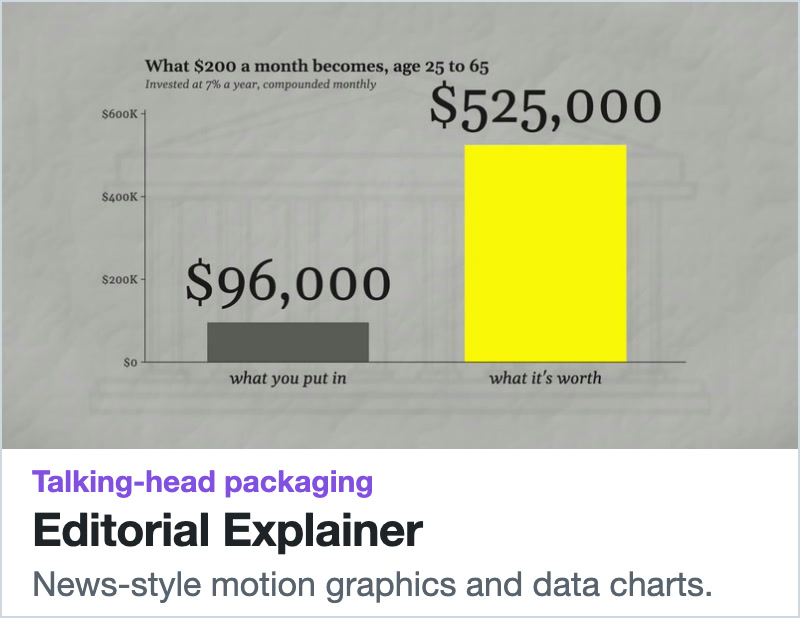
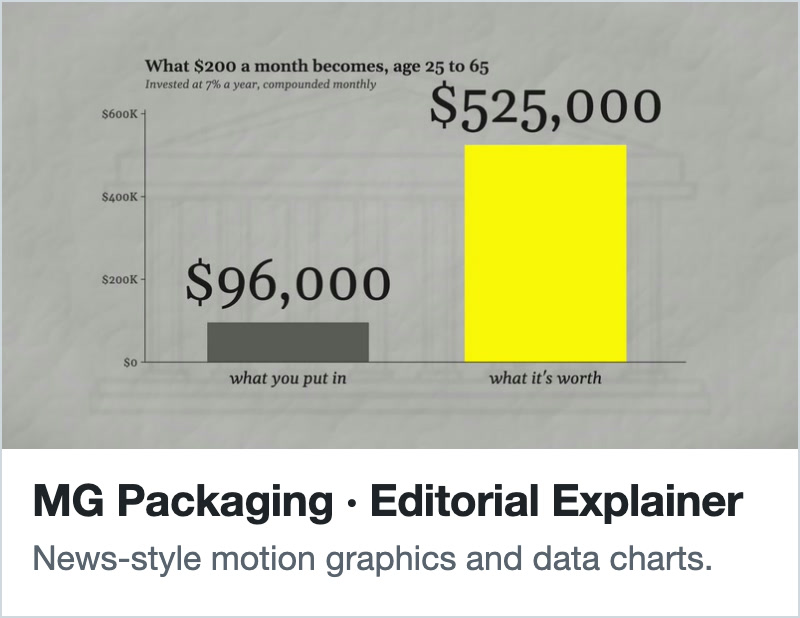
docs(readme): one-line MG Packaging card titles, Install by plugin type
- Packaging cards read "MG Packaging · <style>" on one line at 44px.
- Install opens with the Desktop and Web plugins, adds a Plugin column and a
  Setup guide column with uniform link text, then splits into Desktop and Web
  subsections.

Changed region(s): [[0.0312, 0.7379, 0.9375, 0.9838]]

diff --git a/README.md b/README.md
@@ -27,7 +27,7 @@
 [<img src="docs/media/hosts/antigravity.png" height="28" alt="Google Antigravity">](https://chatcut.io/antigravity-plugin?utm_source=github&utm_medium=readme&utm_campaign=agent-plugin)
 [<img src="docs/media/hosts/workbuddy.png" height="28" alt="WorkBuddy">](https://chatcut.io/workbuddy?utm_source=github&utm_medium=readme&utm_campaign=agent-plugin)<br>
 [<img src="docs/media/hosts/cursor.png" height="28" alt="Cursor">](./cursor/README.md)
-[<img src="docs/media/hosts/gemini-cli.png" height="28" alt="Gemini CLI">](#hosted-web-plugin)
+[<img src="docs/media/hosts/gemini-cli.png" height="28" alt="Gemini CLI">](#install-the-web-plugin)
 [<img src="docs/media/hosts/kimi-work.png" height="28" alt="Kimi Work">](./kimi/README.md)
 [<img src="docs/media/hosts/doubao-work.png" height="28" alt="Doubao Work">](./doubao/README.md)
 [<img src="docs/media/hosts/qwen-work.png" height="28" alt="Qwen Work">](./qwen/README.md)
@@ -39,31 +39,33 @@
   <a href="https://chatcut.io/viralvideocloner?utm_source=github&amp;utm_medium=readme&amp;utm_campaign=agent-plugin"><img src="docs/media/skills/viral-video-cloner.jpg" width="260" alt="Viral Video Cloner: keeps a viral video's moves, camera work and cuts, and swaps in your own people, product and setting"></a>
   <a href="https://chatcut.io/skills/add-captions?utm_source=github&amp;utm_medium=readme&amp;utm_campaign=agent-plugin"><img src="docs/media/skills/add-captions.jpg" width="260" alt="Add captions: readable captions in a style that fits"></a>
   <a href="https://chatcut.io/skills/recreate-a-video?utm_source=github&amp;utm_medium=readme&amp;utm_campaign=agent-plugin"><img src="docs/media/skills/recreate-a-video.jpg" width="260" alt="Talking-Head Edit Recreation: recreates a reference edit with your footage"></a>
-  <a href="https://chatcut.io/skills/mg-packaging-runway-rebel?utm_source=github&amp;utm_medium=readme&amp;utm_campaign=agent-plugin"><img src="docs/media/skills/mg-packaging-runway-rebel.jpg" width="260" alt="Talking-head packaging, Runway Rebel: bold white type with slim yellow numerals"></a>
-  <a href="https://chatcut.io/skills/mg-packaging-editorial-explainer?utm_source=github&amp;utm_medium=readme&amp;utm_campaign=agent-plugin"><img src="docs/media/skills/mg-packaging-editorial-explainer.jpg" width="260" alt="Talking-head packaging, Editorial Explainer: news-style motion graphics and data charts"></a>
+  <a href="https://chatcut.io/skills/mg-packaging-runway-rebel?utm_source=github&amp;utm_medium=readme&amp;utm_campaign=agent-plugin"><img src="docs/media/skills/mg-packaging-runway-rebel.jpg" width="260" alt="MG Packaging · Runway Rebel: bold white type with slim yellow numerals"></a>
+  <a href="https://chatcut.io/skills/mg-packaging-editorial-explainer?utm_source=github&amp;utm_medium=readme&amp;utm_campaign=agent-plugin"><img src="docs/media/skills/mg-packaging-editorial-explainer.jpg" width="260" alt="MG Packaging · Editorial Explainer: news-style motion graphics and data charts"></a>
 </p>
 
 ## Install
 
-**ChatCut Desktop (recommended).** In Codex, the ChatGPT desktop app, Claude Code or another local agent, paste the prompt below. The agent installs ChatCut Desktop, opens sign-in, and connects itself to Desktop's local `chatcut_desktop` MCP server. Hosts marked *(Web)* connect to the hosted Web plugin instead.
+ChatCut comes as two plugins. The **Desktop plugin** (recommended) connects your agent to ChatCut Desktop on your computer: your media stays local, and you get the fullest features and steadiest performance. The **Web plugin** connects to hosted ChatCut Web, for hosts that can't run Desktop, such as Grok Bot, Cursor, Kimi Work and Qwen Work, or for Web-only use.
 
-| Agent | Paste this into your agent, or do this | Guide |
-| --- | --- | --- |
-| Codex | `Read ChatCut.io/desktop to install ChatCut` | [chatcut.io/chatgpt-plugin](https://chatcut.io/chatgpt-plugin?utm_source=github&utm_medium=readme&utm_campaign=agent-plugin) |
-| ChatGPT | `Read ChatCut.io/desktop to install ChatCut` in the desktop app, or open **Plugins** in the sidebar, search for **ChatCut** and select **Install** | [chatcut.io/chatgpt-plugin](https://chatcut.io/chatgpt-plugin?utm_source=github&utm_medium=readme&utm_campaign=agent-plugin) |
-| Claude Code | `Read ChatCut.io/desktop to install ChatCut` | [chatcut.io/claude-code-plugin](https://chatcut.io/claude-code-plugin?utm_source=github&utm_medium=readme&utm_campaign=agent-plugin) |
-| Cursor *(Web)* | Add **ChatCut** from Cursor's plugin marketplace and sign in | [cursor/README.md](./cursor/README.md) |
-| Grok Bot *(Web)* | `Read ChatCut.io/grok to connect the ChatCut app` | [chatcut.io/grok-plugin](https://chatcut.io/grok-plugin?utm_source=github&utm_medium=readme&utm_campaign=agent-plugin) |
-| Gemini CLI *(Web)* | `gemini extensions install https://github.com/ChatCut-Inc/agent-plugin` | [Hosted Web plugin](#hosted-web-plugin) |
-| Google Antigravity | `Read ChatCut.io/antigravity to install ChatCut` | [chatcut.io/antigravity-plugin](https://chatcut.io/antigravity-plugin?utm_source=github&utm_medium=readme&utm_campaign=agent-plugin) |
-| Kimi Work *(Web)* | Import the package with Kimi Work's plugin installer, then select **Login** on the ChatCut connector card | [kimi/README.md](./kimi/README.md) |
-| WorkBuddy | `Read ChatCut.io/desktop to install ChatCut`, or add the ChatCut expert from WorkBuddy's experts page *(Web)* | [chatcut.io/workbuddy](https://chatcut.io/workbuddy?utm_source=github&utm_medium=readme&utm_campaign=agent-plugin) · [workbuddy/README.md](./workbuddy/README.md) |
-| Doubao Work (豆包工作) | Add **ChatCut** in Doubao Work and ask for an edit. It connects to ChatCut Desktop through a local connector and installs Desktop if needed | [doubao/README.md](./doubao/README.md) |
-| Qwen Work (千问办公) *(Web)* | Turn on **ChatCut** under **Extensions → Connectors** (扩展 → 连接器) and sign in | [qwen/README.md](./qwen/README.md) |
+| Agent | Plugin | How to install | Setup guide |
+| --- | --- | --- | --- |
+| Codex | Desktop | `Read ChatCut.io/desktop to install ChatCut` | [Codex guide](https://chatcut.io/chatgpt-plugin?utm_source=github&utm_medium=readme&utm_campaign=agent-plugin) |
+| ChatGPT | Desktop | `Read ChatCut.io/desktop to install ChatCut` in the desktop app, or open **Plugins** in the sidebar, search for **ChatCut** and select **Install** | [ChatGPT guide](https://chatcut.io/chatgpt-plugin?utm_source=github&utm_medium=readme&utm_campaign=agent-plugin) |
+| Claude Code | Desktop | `Read ChatCut.io/desktop to install ChatCut` | [Claude Code guide](https://chatcut.io/claude-code-plugin?utm_source=github&utm_medium=readme&utm_campaign=agent-plugin) |
+| Cursor | Web | Add **ChatCut** from Cursor's plugin marketplace and sign in | [Cursor guide](./cursor/README.md) |
+| Grok Bot | Web | `Read ChatCut.io/grok to connect the ChatCut app` | [Grok Bot guide](https://chatcut.io/grok-plugin?utm_source=github&utm_medium=readme&utm_campaign=agent-plugin) |
+| Gemini CLI | Web | `gemini extensions install https://github.com/ChatCut-Inc/agent-plugin` | [Gemini CLI guide](#install-the-web-plugin) |
+| Google Antigravity | Desktop | `Read ChatCut.io/antigravity to install ChatCut` | [Antigravity guide](https://chatcut.io/antigravity-plugin?utm_source=github&utm_medium=readme&utm_campaign=agent-plugin) |
+| Kimi Work | Web | Import the package with Kimi Work's plugin installer, then select **Login** on the ChatCut connector card | [Kimi Work guide](./kimi/README.md) |
+| WorkBuddy | Desktop or Web | Desktop: `Read ChatCut.io/desktop to install ChatCut`. Web: add the ChatCut expert from WorkBuddy's experts page | [WorkBuddy guide](https://chatcut.io/workbuddy?utm_source=github&utm_medium=readme&utm_campaign=agent-plugin) · [WorkBuddy Web guide](./workbuddy/README.md) |
+| Doubao Work (豆包工作) | Desktop | Add **ChatCut** in Doubao Work and ask for an edit. It connects through a local connector and installs Desktop if needed | [Doubao Work guide](./doubao/README.md) |
+| Qwen Work (千问办公) | Web | Turn on **ChatCut** under **Extensions → Connectors** (扩展 → 连接器) and sign in | [Qwen Work guide](./qwen/README.md) |
 
-### Install ChatCut Desktop yourself
+### Install the Desktop plugin
 
-Run the official installer on the macOS or Windows computer itself. It needs a graphical desktop but not Node.js or npm, so a Linux or remote agent can't install Desktop there:
+In Codex, the ChatGPT desktop app, Claude Code or another local agent, paste `Read ChatCut.io/desktop to install ChatCut`. The agent installs ChatCut Desktop, opens sign-in and connects itself to Desktop's local `chatcut_desktop` MCP server.
+
+To install Desktop yourself, run the official installer on the macOS or Windows computer. It needs a graphical desktop but not Node.js or npm, so a Linux or remote agent can't install Desktop there:
 
 ```sh
 # macOS 13 or newer (Apple Silicon or Intel)
@@ -75,7 +77,7 @@ curl -fsSL https://chatcut.io/install.sh | sh
 irm https://chatcut.io/install.ps1 | iex
 ```
 
-Google Antigravity can also install the Desktop package directly. Then ask “Install ChatCut on this computer”. It installs and connects ChatCut Desktop only; see [antigravity-desktop/README.md](./antigravity-desktop/README.md).
+Google Antigravity can also install the Desktop package directly. Then ask “Install ChatCut on this computer”. It installs and connects ChatCut Desktop only; see the [Antigravity Desktop guide](./antigravity-desktop/README.md).
 
 ```sh
 agy plugin install https://github.com/ChatCut-Inc/agent-plugin/tree/main/antigravity-desktop
@@ -83,9 +85,9 @@ agy plugin install https://github.com/ChatCut-Inc/agent-plugin/tree/main/antigra
 
 Video recreation needs Desktop: its bundled `video-gen` Skill calls `submit_video_remake` to keep a reference video's motion and timing with your person or product, and asks before spending credits ([guide](https://chatcut.io/viralvideocloner?utm_source=github&utm_medium=readme&utm_campaign=agent-plugin)).
 
-### Hosted Web plugin
+### Install the Web plugin
 
-Use this for existing ChatCut Web projects or Web-only use. Web projects and their media aren't migrated to Desktop, and connecting Desktop to the same agent may replace its hosted connection.
+Web projects and their media aren't migrated to Desktop, and connecting Desktop to the same agent may replace its hosted connection.
 
 Claude Code (`claude mcp login` needs Claude Code 2.1.210 or newer; [full guide](https://chatcut.io/web-plugin/claude?utm_source=github&utm_medium=readme&utm_campaign=agent-plugin), [agent-executable copy](./docs/claude-code-web-install.md)):
 
@@ -110,7 +112,7 @@ Gemini CLI:
 gemini extensions install https://github.com/ChatCut-Inc/agent-plugin
 ```
 
-Grok Bot, Cursor and Antigravity Web: see [grok/README.md](./grok/README.md), [cursor/README.md](./cursor/README.md) and [antigravity/README.md](./antigravity/README.md). Grok Bot and Cursor sign in from the host's Plugins screen; in Antigravity, select **Customizations → Authenticate** next to the ChatCut MCP server.
+Grok Bot and Antigravity Web: see the [Grok Bot Web guide](./grok/README.md) and the [Antigravity Web guide](./antigravity/README.md). Grok Bot and Cursor sign in from the host's Plugins screen; in Antigravity, select **Customizations → Authenticate** next to the ChatCut MCP server.
 
 Other MCP clients that support remote servers with OAuth can connect to `https://api.chatcut.io/api/external-mcp/mcp` and sign in with a ChatCut account.
 
